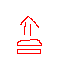
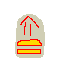
Fully implemented order boosts and tweaked how pickups work (a powerup is not picked up/removed if it cannot be used).

Changed region(s): [[0.2188, 0.2188, 0.7188, 0.9062]]

diff --git a/core/src/com/devcharles/piazzapanic/componentsystems/PowerupPickupSystem.java b/core/src/com/devcharles/piazzapanic/componentsystems/PowerupPickupSystem.java
@@ -1,5 +1,7 @@
 package com.devcharles.piazzapanic.componentsystems;
 
+import java.util.ArrayList;
+
 import com.badlogic.ashley.core.Component;
 import com.badlogic.ashley.core.Engine;
 import com.badlogic.ashley.core.Entity;
@@ -12,6 +14,7 @@ import com.devcharles.piazzapanic.components.Powerups.PowerupComponent;
 import com.devcharles.piazzapanic.components.Powerups.cookBoostComponent;
 import com.devcharles.piazzapanic.components.Powerups.cutBoostComponent;
 import com.devcharles.piazzapanic.components.Powerups.speedBoostComponent;
+import com.devcharles.piazzapanic.components.Powerups.timeFreezeBoostComponent;
 import com.devcharles.piazzapanic.components.Powerups.PowerupComponent.powerupType;
 import com.devcharles.piazzapanic.utility.Mappers;
 import com.devcharles.piazzapanic.componentsystems.CustomerAISystem;
@@ -29,9 +32,9 @@ public class PowerupPickupSystem extends IteratingSystem {
     @Override
     protected void processEntity(Entity entity, float deltaTime) {
         if (entity.getComponent(PowerupComponent.class).markedForDeletion == true) {
-            givePowerup(entity.getComponent(PowerupComponent.class).playerTouched,
-                    entity.getComponent(PowerupComponent.class).type);
-            destroyPowerup(entity);
+            if(givePowerup(entity.getComponent(PowerupComponent.class).playerTouched, entity.getComponent(PowerupComponent.class).type)) {
+                destroyPowerup(entity);
+            }
         }
     }
 
@@ -43,10 +46,11 @@ public class PowerupPickupSystem extends IteratingSystem {
 
     /**
      * What happens when a player walks over a powerup.
-     * @param player
-     * @param type
+     * @param player The chef/entity being controlled by the user.
+     * @param type The type of powerup picked up (eg cook boost, time freeze etc.).
+     * @return Whether the powerup was used.
      */
-    public void givePowerup(Entity player, powerupType type) {
+    public boolean givePowerup(Entity player, powerupType type) {
         System.out.print("Given powerup: ");
         System.out.println(type);
 
@@ -61,15 +65,36 @@ public class PowerupPickupSystem extends IteratingSystem {
                 break;
             case cutBoost:
                 player.add(engine.createComponent(cutBoostComponent.class));
+                break;
+            case timeFreezeBoost:
+                // Stuff can be changed in HUD.java for this.
+                player.add(engine.createComponent(timeFreezeBoostComponent.class));
+                break;
             case orderBoost: // Fulfil the order immediately
-                // TODO, make this random and also implement the rest of the powerups.
                 ImmutableArray<Entity> customers = engine.getEntitiesFor(Family.all(CustomerComponent.class).get()); // Gets all the entities that have CustomerComponent
-                Entity happyCustomer = customers.get(0); // Get the first customer in the list
-                engine.getSystem(CustomerAISystem.class).autoFulfillOrder(happyCustomer);
+                ArrayList<Entity> filtered_customers = new ArrayList<Entity>(); // filter out customers that have been served (because trying to auto serve them will just crash).
+
+                for(Entity customer : customers) {
+                    if(customer.getComponent(CustomerComponent.class).order != null) {
+                        filtered_customers.add(customer);
+                    }
+                }
+                
+                // If there are customers, choose one at random.
+                if(filtered_customers.size() > 0) {
+                    Entity happyCustomer = filtered_customers.get((int) (Math.random() * filtered_customers.size()));
+                    engine.getSystem(CustomerAISystem.class).autoFulfillOrder(happyCustomer);
+                } else {
+                    // Otherwise, let the calling function know that the powerup wasn't used.
+                    return false;
+                }
+
                 break;
             default:
-                System.out.println("Tried to give a powerup that doesn't exist.");
+                System.out.println("(!) Tried to give a powerup that doesn't exist.");
                 break;
         }
+
+        return true;  // Assume the powerup is used if not otherwise indicated above.
     }
 }

diff --git a/core/src/com/devcharles/piazzapanic/utility/EntityFactory.java b/core/src/com/devcharles/piazzapanic/utility/EntityFactory.java
@@ -367,8 +367,9 @@ public class EntityFactory {
 
         String boostIconPath = "boosts/boostError.png";  // Initiaise it to display an error if something goes wrong.
 
-        int type = ThreadLocalRandom.current().nextInt(0, 5);
-        switch (type) {
+        int newPowerupType = ThreadLocalRandom.current().nextInt(0, 5);
+        newPowerupType = 4;  // This is to make everything order boosts, this shouldn't make it into the final game!
+        switch (newPowerupType) {
             case 0:
                 boost.type = powerupType.speedBoost;
                 boostIconPath = "boosts/boostSpeed.png";
